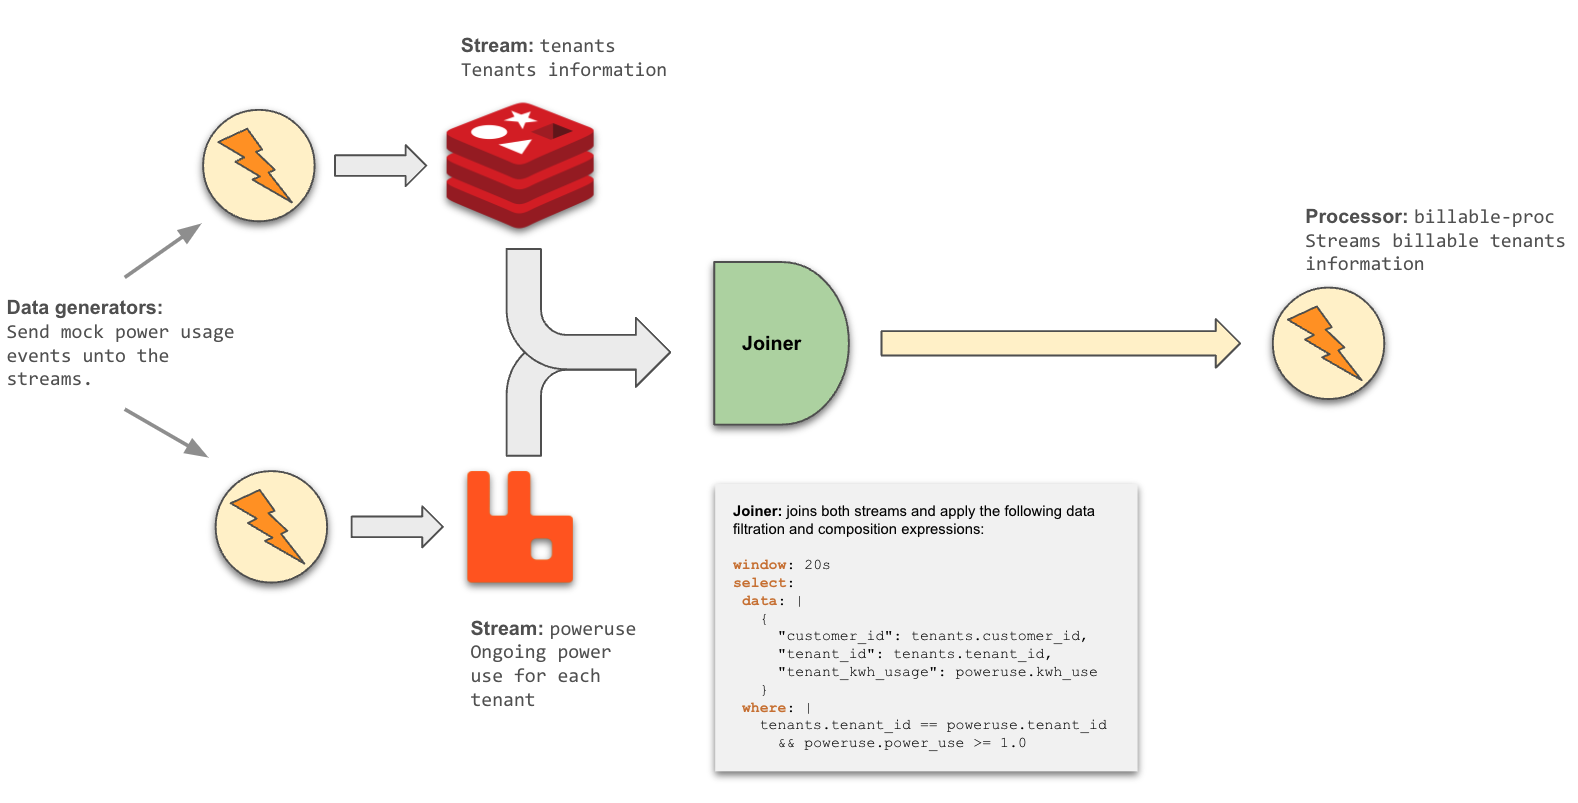
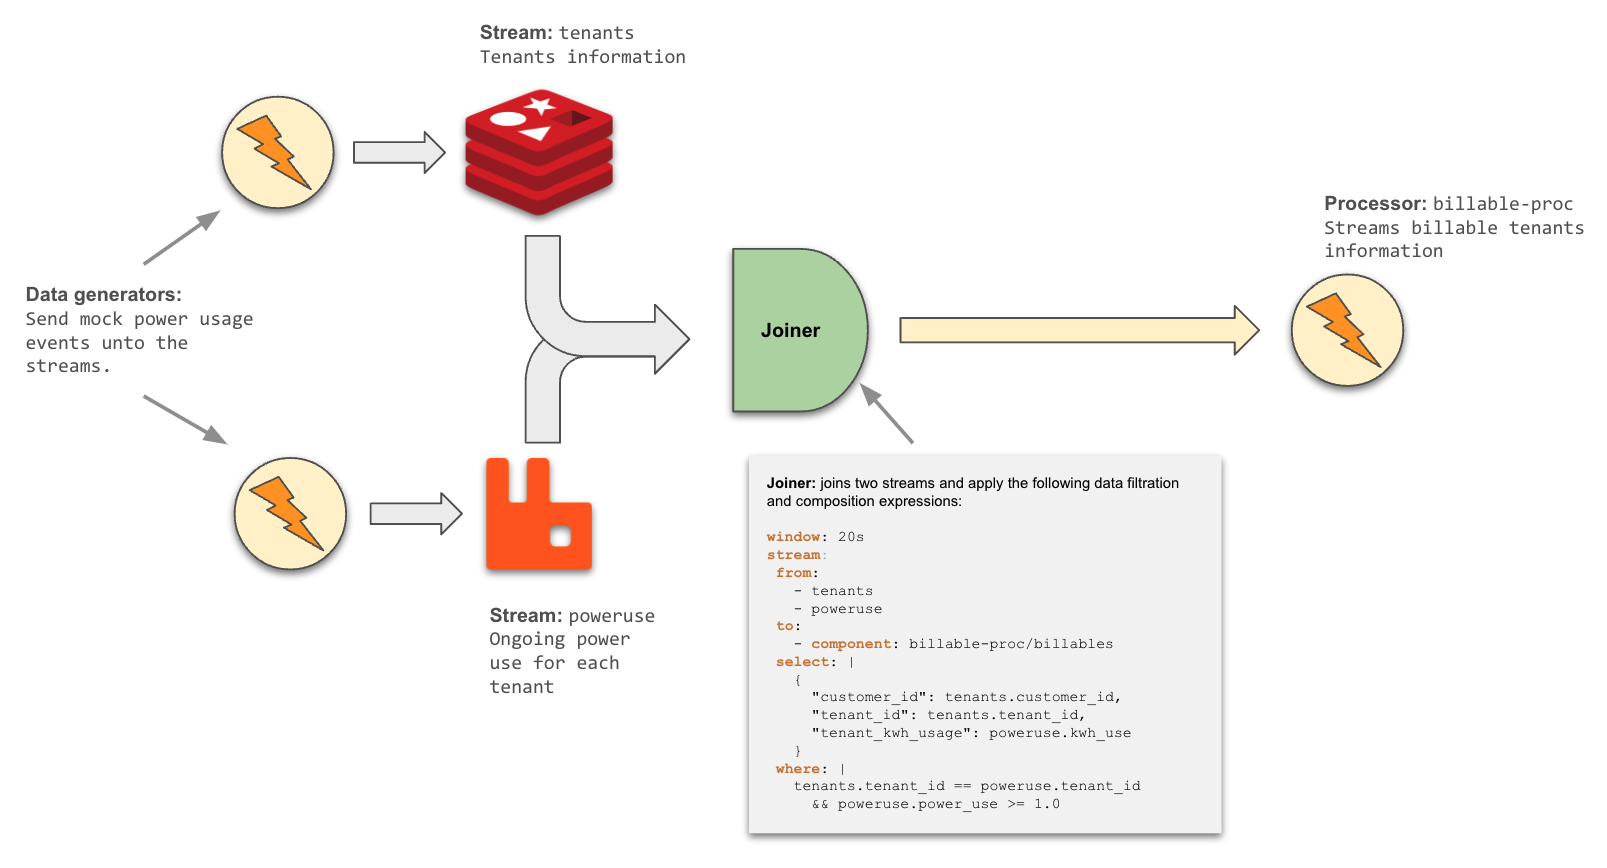
Update stream illustrations

diff --git a/examples/power-usage/README.md b/examples/power-usage/README.md
@@ -177,12 +177,15 @@ metadata:
   name: join-tenants-poweruse
   namespace: default
 spec:
-  streams:
-    - tenants
-    - poweruse
+  servicePort: 8080
   window: 20s
-  select:
-    data: |
+  stream:
+    from:
+      - tenants
+      - poweruse
+    to:
+      - component: billable-proc/billables
+    select: |
       {
         "customer_id": tenants.customer_id,
         "tenant_id": tenants.tenant_id,
@@ -191,9 +194,6 @@ spec:
     where: |
       tenants.tenant_id == poweruse.tenant_id
         && poweruse.power_use >= 1.0
-
-  servicePort: 8080
-  target: billable-proc/billables
 ```
 
 ### The message `Processor`

diff --git a/examples/stream-join/README.md b/examples/stream-join/README.md
@@ -86,15 +86,19 @@ metadata:
   name: hello-goodbye-join
   namespace: default
 spec:
-  streams:
-  - hello
-  - goodbye
-  window: 14s
-  select:
-    data: '{"hello": hello, "goodbye":goodbye}'
-    where: "int(hello['id']) == 5 && goodbye.id == 5.0"
   servicePort: 8080
-  target: message-proc/messages
+  window: 14s
+  stream:
+    from:
+      - hello
+      - goodbye
+    to:
+      - component: message-proc/messages
+    select: |
+      {"hello": hello, "goodbye":goodbye}
+    where: |
+      int(hello['id']) == 5 && goodbye.id == 5.0
+
 ```
 
 ### Message generator

diff --git a/examples/channel/README.md b/examples/channel/README.md
@@ -222,12 +222,15 @@ metadata:
   namespace: default
 spec:
   servicePort: 8080
-  serviceRoute: greetings
-  select:
-    data: '{"new-greeting": greetings.greeting + " " + greetings.location + "!"}'
-    where: "int(greetings['id']) % 5 == 0"
-  target:
-    stream: rabbit-stream/greetings-sink
+  stream:
+    from:
+      - greetings
+    to:
+      - stream: rabbit-stream/greetings-sink
+    select: |
+      {"newgreeting": greetings.greeting + " " + greetings.location + "!"}
+    where: |
+      int(greetings['id']) % 5 == 0
 ```
 
 ### The message `Processor`

diff --git a/examples/detect-ssh-attack/README.md b/examples/detect-ssh-attack/README.md
@@ -167,16 +167,17 @@ metadata:
   namespace: default
 spec:
   servicePort: 8080
-  serviceRoute: syslog
-  select:
-    data: |
+  stream:
+    from:
+      - syslog
+    to:
+      - component: syslog-proc/syslog
+    select: |
       {"ts": syslog.timestamp, "message":syslog.message}
     where: |
       syslog.process.startsWith("sshd")
         && syslog.message.startsWith("authentication failure")
         && syslog.message.contains("user=root")
-  target:
-    component: syslog-proc/syslog
 ```
 
 ### The message `Processor`
